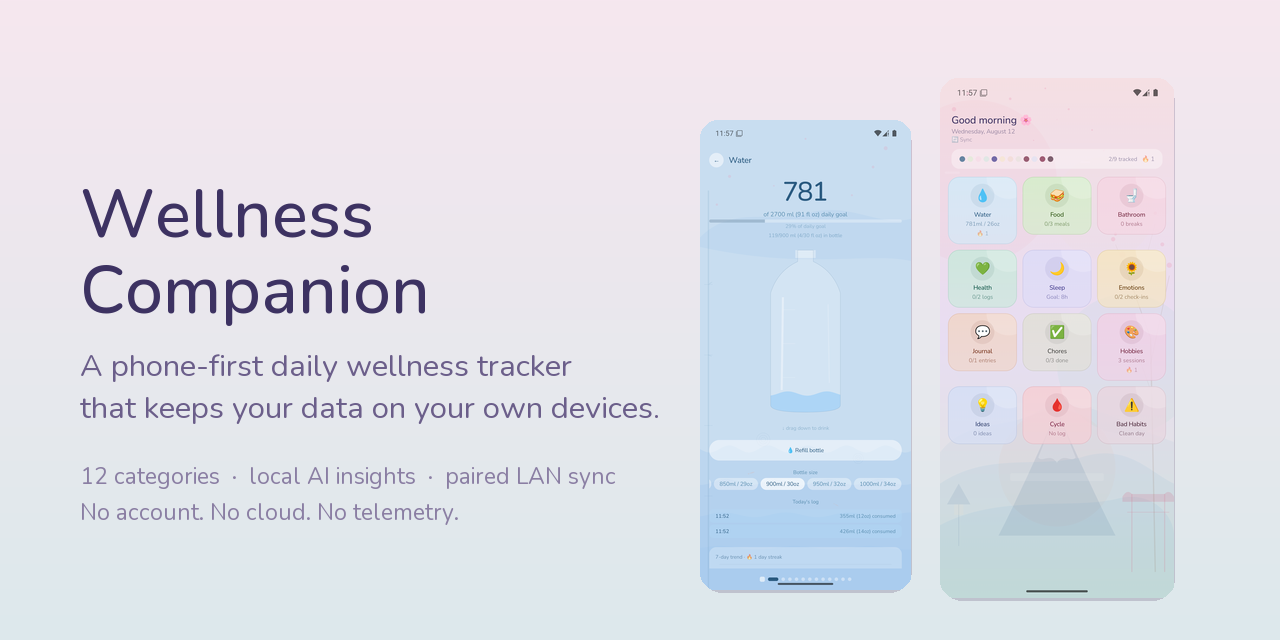
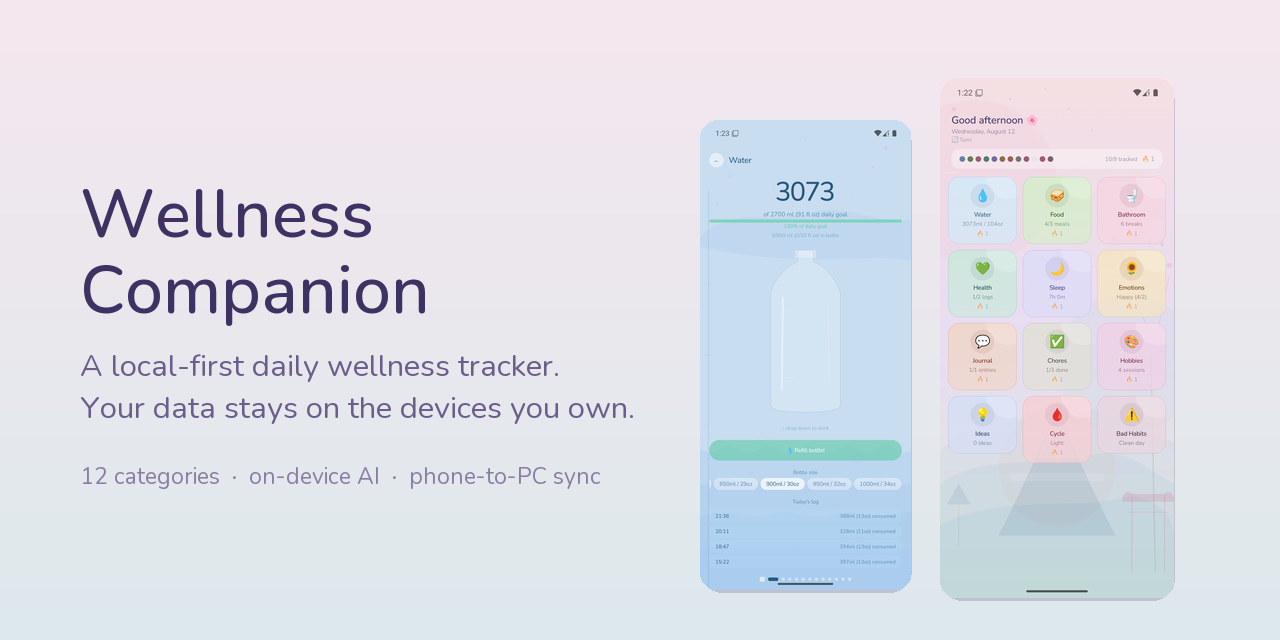
docs: state the privacy claim positively instead of leading with the threat
The opener began 'Wellness apps want your body in their cloud', which put
'wellness app', 'your body' and 'cloud' in the first sentence — a skimming
reader attaches all three to THIS app, which is the opposite of the point.
Negation does not survive skimming.

Rewritten to lead with where the data actually lives ('here it stays on the
devices you already own'), explain why that is structurally true rather than a
promise, and only then contrast with services that ask you to hand the data
over. The trade-off stays stated plainly.

Same fix applied to the repo description, which buried 'No cloud, no account'
at the end, and to the social banner, which closed on three negations.

diff --git a/README.md b/README.md
@@ -23,18 +23,26 @@
 </p>
 
 ---
+
 ## Why this exists
 
-Wellness apps want your body in their cloud. Sleep, mood, menstrual cycle, symptoms, bathroom
-habits — the most personal data you generate, sitting on somebody else's server under somebody
-else's privacy policy, sold or breached on somebody else's timetable.
+Your sleep, your mood, your cycle, your symptoms. This is the most personal record you will ever
+keep — and here it stays on the devices you already own. Your phone holds it. Your PC holds a copy
+if you want a bigger screen. Nothing else holds it at all.
 
-This app is the other shape of that idea. Everything lives on **your** phone and, if you want it,
-**your** PC. The two talk directly to each other over your own Wi-Fi. There is no server to sign up
-to, because there is no server. The AI that summarises your week is a 4-billion-parameter model
-running on your own machine — your entries are never sent anywhere to be analysed.
+That is possible because there is nothing else: no account to create, no service to sign in to, no
+company sitting between you and your own history. The two apps talk straight to each other over
+your own Wi-Fi. Even the AI that writes your weekly summary is a 4-billion-parameter model running
+on your machine, reading a database on your own disk. Switch the network off and everything still
+works exactly the same.
 
-You give up cross-device magic and cloud backup. You get a health log nobody can read but you.
+Most trackers ask you to hand this material to a service instead — one whose privacy policy can be
+rewritten, whose database can be breached, and whose owners can change their minds about what your
+data is for. Wellness Companion can't do any of that to you. Not because it promises not to, but
+because it has nowhere to send anything.
+
+The trade is real and worth stating plainly: you give up cloud backup and syncing from anywhere. You
+get a health log nobody can read but you.
 
 ## What it is
 
